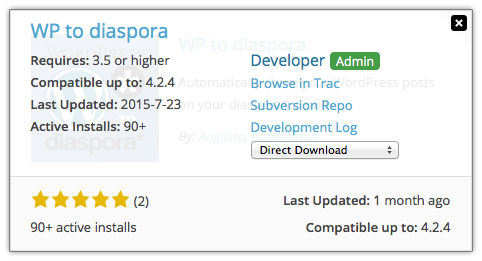
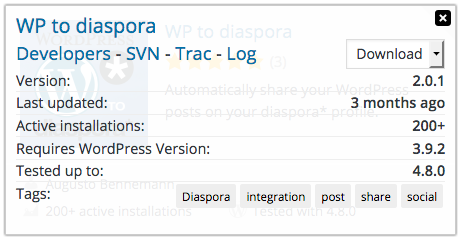
Version 2.0. Adapt to new WP Plugin Repository.

Changed region(s): [[0.0, 0.0, 1.0, 0.9917], [0.5163, 0.4667, 0.8503, 0.6125], [0.5163, 0.3792, 0.7289, 0.4375]]

diff --git a/WPorg-Dev.user.js b/WPorg-Dev.user.js
@@ -1,11 +1,11 @@
 // ==UserScript==
 // @name        WPorg-Dev
 // @namespace   wordpress
-// @description A userscript to help developers access certain WordPress.org pages a lot easier.
+// @description A userscript to help developers access certain WordPress.org plugin information and pages a lot easier.
 // @include     https://wordpress.org/plugins/*
 // @include     https://*.wordpress.org/plugins/*
-// @version     1.0
-// @copyright   2015 Armando Lüscher
+// @version     2.0
+// @copyright   2017 Armando Lüscher
 // @author      Armando Lüscher
 // @oujs:author noplanman
 // @grant       GM_addStyle
@@ -51,14 +51,14 @@ wodu.getFailedRetryButton = function ($el, cb) {
 /**
  * Generate a dropdown menu with all the downloadable versions.
  *
- * The dropdown also has the functionality, that when the selected value changes, the download of it begins.
+ * When the selection changes, the selected version download begins.
  *
  * @param {jQuery} $devPage The page containing the links.
  * @return {jQuery} Dropdown menu with all the links.
  */
 wodu.getDLLinkDropdown = function ($devPage) {
-  var $select = $('<select/>')
-    .append('<option value="">Direct Download</option>')
+  var $select = $('<select class="wodu-dllink-dropdown"/>')
+    .append('<option value="">' + $('#download-previous-link', $devPage).text() + '</option>')
     .click(function () {
       this.value = '';
     })
@@ -66,8 +66,14 @@ wodu.getDLLinkDropdown = function ($devPage) {
       if (this.value) location.href = this.value;
     });
 
-  $('.unmarked-list a[itemprop="downloadUrl"]', $devPage).each(function () {
-    $select.append('<option value="' + $(this).attr('href') + '">' + $(this).text() + '</option>');
+  // Force width of first entry. (https://stackoverflow.com/a/27442394)
+  var $selectTmp = $select.clone().hide();
+  $selectTmp.appendTo($('body'));
+  $select.width($selectTmp.width() + 10);
+  $selectTmp.remove();
+
+  $('.previous-versions option', $devPage).each(function () {
+    $select.append('<option value="' + $(this).attr('value') + '">' + $(this).text() + '</option>');
   });
 
   return $select;
@@ -100,31 +106,34 @@ wodu.loadPluginCardExtra = function ($card) {
   }
   $card.addClass('wodu-loaded');
 
+  var slug = wodu.getSlug($('.entry-title a', $card).attr('href'));
+
   // Get rid of any error message that may be there.
-
-  var slug = wodu.getSlug($('.name a', $card).attr('href'));
-
   var $panelInfo = $('.wodu-panel-info', $card).empty();
-
   var $spinner = $('.wodu-spinner', $card).show();
 
-  $.get(pluginsBaseURL + slug + '/developers', function (response) {
+  $.get(pluginsBaseURL + slug + '/advanced', function (response) {
     // Get rid of all images first, no need to load those.
     var $devPage = $(response.replace(/<img[^>]*>/g, ''));
 
-    $panelInfo.append($('meta[itemprop="dateModified"]', $devPage).parent());
+    var $meta = $('.plugin-meta', $devPage);
+
+    // Remove languages section, no need for it.
+    $('.languages', $meta).parent().remove();
+
+    $panelInfo.append($meta);
 
     var $panelDev = $('.wodu-panel-dev', $card)
       .append(wodu.getDevLinks(slug, $devPage).join('&nbsp;-&nbsp;'))
       .append(wodu.getDLLinkDropdown($devPage));
   })
-    .always(function () {
-      $spinner.hide();
-    })
-    .fail(function (e) {
+    .fail(function () {
       wodu.getFailedRetryButton($panelInfo, function () {
         wodu.loadPluginCardExtra($card);
       });
+    })
+    .always(function () {
+      $spinner.hide();
     });
 };
 
@@ -136,20 +145,18 @@ wodu.loadPluginCardExtra = function ($card) {
 wodu.setupPluginCardExtras = function ($pluginCards) {
   // Add the CSS.
   GM_addStyle(
[1 lines of base64/hex data omitted]
-    '.wodu-spinner { position: absolute; left: 50%; top: 50%; }' +
     '.wodu-close { position: absolute; top: 4px; right: 4px; }' +
     '.wodu-plugin-card { position: relative; }' +
+    '.wodu-title { font-size: 1.1em; }' +
+    '.wodu-dllink-dropdown { float: right; padding: 3px 5px; }' +
+    '.wodu-plugin-card-extras { box-sizing: border-box; overflow: auto; display: none; position: absolute; width: 100%; height: 100%; margin: -15px; border: 1px solid #ccc; padding: 4px 10px; background-color: rgba(255, 255, 255, 0.9); z-index: 1; }' +
+    // Little triangle.
     '.wodu-plugin-card:before { content: ""; position: absolute; top: 0px; right: 0px; border-width: 36px 0 0 36px; border-style: solid; border-color: #ddd transparent; }' +
-    '.wodu-plugin-card-extras { box-sizing: border-box; overflow: auto; display: none; position: absolute; width: 100%; height: 100%; margin: -20px -20px -10px; padding: 4px 10px; background-color: rgba(255, 255, 255, 0.9); z-index: 1; }' +
-    '.wodu-title { padding: 4px 10px; font-size: 1.5em; font-weight: bold; }' +
-    '.wodu-subtitle { font-size: 1.2em; font-weight: bold; }' +
-    '.wodu-subtitle .wodu-dev-admin { font-size: .8em; margin-left: 5px; }'
[1 lines of base64/hex data omitted]
   );
 
   $pluginCards.each(function () {
     var $card = $(this).addClass('wodu-plugin-card');
-    var $cardTop = $('.plugin-card-top', $card);
 
     var $extrasButton = $('<div class="wodu-extras-button"/>')
       .click(function () {
@@ -157,7 +164,7 @@ wodu.setupPluginCardExtras = function ($pluginCards) {
         $extras.show();
         wodu.loadPluginCardExtra($card);
       })
-      .prependTo($cardTop);
+      .prependTo($card);
 
     // Prepare the extras.
     var $close = $('<div class="wodu-close"/>')
@@ -165,14 +172,13 @@ wodu.setupPluginCardExtras = function ($pluginCards) {
         $extras.hide();
         $extrasButton.show();
       });
-    var extrasLoading = false;
     var $extras = $('<div/>', {class: 'wodu-plugin-card-extras'})
       .append($close)
       .append('<div class="wodu-spinner"/>')
-      .append('<div class="wodu-title">' + $('.name a', $card).parent().html() + '</div>')
-      .append('<div class="wodu-col-6 wodu-panel-info"/>')
-      .append('<div class="wodu-col-6 wodu-panel-dev"/>')
-      .prependTo($cardTop);
+      .append('<div class="wodu-title">' + $('.entry-title a', $card).parent().html() + '</div>')
+      .append('<div class="wodu-panel-dev"/>')
+      .append('<div class="wodu-panel-info"/>')
+      .prependTo($card);
   });
 };
 
@@ -182,13 +188,15 @@ wodu.setupPluginCardExtras = function ($pluginCards) {
 wodu.init = function () {
   // Add the global CSS rules.
   GM_addStyle(
[3 lines of base64/hex data omitted]
-    '.wodu-col-6 { width: 50%; float: left; padding: 4px 10px; box-sizing: border-box; }' +
-    '.wodu-failed { margin: 0; }'
+    '.wodu-failed { margin: 0; }' +
+    '.wodu-panel-info .plugin-meta { margin: 0; }' +
+    '.wodu-panel-info .plugin-meta .tags { width: auto; }' +
+    '.wodu-panel-info .plugin-meta li { padding: 0; }'
   );
 
-  var $pluginCards = $('.plugins-directory .plugin-card');
+  var $pluginCards = $('.plugin-card');
   if ($pluginCards.length) {
     wodu.setupPluginCardExtras($pluginCards);
   }

diff --git a/README.md b/README.md
@@ -1,8 +1,7 @@
 # WPorg-Dev-Userscript (WoDU)
-A userscript to help developers access certain WordPress.org pages a lot easier.
+A userscript to help developers access certain WordPress.org plugin information and pages a lot easier.
 
-- Version: 1.0
-- Short-Link for sharing: [j.mp/wodu-script](https://j.mp/wodu-script)
+- Version: 2.0 (New WP Plugin Repository)
 - Disclaimer: WoDU userscript is in no way affiliated with WordPress.org.
 
 ---
@@ -13,63 +12,68 @@ If you feel sure about what you're doing and just can't hold it anymore, skip ah
 
 ---
 
-##Features
+## Features
 
 Here's a list of currently available features:
 - [Plugin card extras](#plugin-card-extras): Extra information panel for plugin cards on the WP.org plugins listing pages.
 
 ---
 
+### Plugin card extras
+When viewing a plugins listing page, each plugin card now has a little *code* icon on the top right corner. Clicking it, will load an overlay with the important information of the plugin and a collection of developer links for easy access.
 
+![Plugin card]
 
-###Plugin card extras
-When viewing a plugins listing page, each plugin card now has a little *code* icon on the top right corner. Clicking it, will load an overlay with the important information of the plugin and a collection of developer links for easy access (see *[Developer submenu](#developer-submenu))*.
-
-![Plugin card][plugin-card]
-
-![Plugin card extra][plugin-card-extra]
+![Plugin card extra]
 
 ---
 
-##Installation
+## Installation
 
 WoDU can be installed on a **PC with Windows**, or a **Mac with OSX**.
 Simply choose the plugin that corresponds to your web browser below and download the script, as easy as that!
 
-###With Plugin
+### With Plugin
 1. Which browser?
-  - **Firefox**: Install the [GreaseMonkey](https://addons.mozilla.org/en-US/firefox/addon/greasemonkey/) extension.
-  - **Chrome**: Install the [Tampermonkey](https://chrome.google.com/webstore/detail/tampermonkey/dhdgffkkebhmkfjojejmpbldmpobfkfo?hl=en) extension.
-  - **Opera**: Install the [ViolentMonkey](https://addons.opera.com/en/extensions/details/violent-monkey/) extension.
+  - **Firefox**: Install the [GreaseMonkey] extension.
+  - **Chrome**: Install the [Tampermonkey] extension.
+  - **Opera**: Install the [ViolentMonkey] extension.
   - **Safari** & **Internet Explorer**: *NOT SUPPORTED!*
 
 2. WoDU userscript can be found here (just choose any one)
-  - [Get it on OpenUserJS.org](https://openuserjs.org/install/noplanman/WPorg-Dev.user.js)
-  - [Get it on GreasyFork](https://greasyfork.org/scripts/12089-wporg-dev/code/WPorg-Dev.user.js)
-  - [Get it on GitHub](https://raw.githubusercontent.com/noplanman/WPorg-Dev-Userscript/master/WPorg-Dev.user.js)
+  - [Get it on OpenUserJS.org]
+  - [Get it on GreasyFork]
+  - [Get it on GitHub]
 
-##Any ideas / Feature requests / Comments?
+## Any ideas / Feature requests / Comments?
 If you have any ideas for me or things you would like to see in this script, go ahead and create a [New Issue](https://github.com/noplanman/WPorg-Dev-Userscript/issues/new) and let me know!
 
 Any comment is highly appreciated, thanks!
 
-##Donations
+## Donations
 
-Well, if you really insist, go ahead =)
+Well, if you really insist, [go ahead](https://noplanman.ch/donate) =)
 
-- Bitcoin: 139U4NdzUwhWuF6E8ezuVpW9Ctqb6xeAFD
-- [PayPal](https://www.paypal.com/cgi-bin/webscr?cmd=_donations&business=armando%40noplanman%2ech&item_name=WoDU%20Donation)
+## Changelog
 
-##Changelog
+### Version 2.0
 
-###Version 1.0
+- Adapt to new WP Plugin Repository.
+- Remove developer submenu.
+
+### Version 1.0
 
 - Add the developer submenu.
 - Add the plugin cards extras.
 
-##Attributions
+## Attributions
 Icons: https://www.icons8.com/
 
-[dev-submenu]: https://raw.githubusercontent.com/noplanman/WPorg-Dev-Userscript/master/assets/dev-submenu.png "Open submenu"
-[plugin-card]: https://raw.githubusercontent.com/noplanman/WPorg-Dev-Userscript/master/assets/plugin-card.png "Plugin card"
-[plugin-card-extra]: https://raw.githubusercontent.com/noplanman/WPorg-Dev-Userscript/master/assets/plugin-card-extra.png "Plugin card extra"
+[GreaseMonkey]: https://addons.mozilla.org/en-US/firefox/addon/greasemonkey/ "GreaseMonkey for Firefox"
+[Tampermonkey]: https://chrome.google.com/webstore/detail/tampermonkey/dhdgffkkebhmkfjojejmpbldmpobfkfo?hl=en "Tampermonkey for Chrome"
+[ViolentMonkey]: https://addons.opera.com/en/extensions/details/violent-monkey/ "ViolentMonkey for Opera"
+[Get it on OpenUserJS.org]: https://openuserjs.org/install/noplanman/WPorg-Dev.user.js "OpenUserJS.org"
+[Get it on GreasyFork]: https://greasyfork.org/scripts/12089-wporg-dev/code/WPorg-Dev.user.js "GreasyFork"
+[Get it on GitHub]: https://raw.githubusercontent.com/noplanman/WPorg-Dev-Userscript/master/WPorg-Dev.user.js "GitHub"
+[Plugin card]: https://raw.githubusercontent.com/noplanman/WPorg-Dev-Userscript/master/assets/plugin-card.png "Plugin card"
+[Plugin card extra]: https://raw.githubusercontent.com/noplanman/WPorg-Dev-Userscript/master/assets/plugin-card-extra.png "Plugin card extra"
